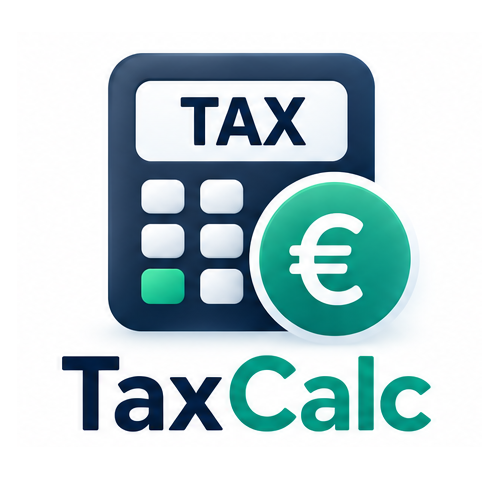
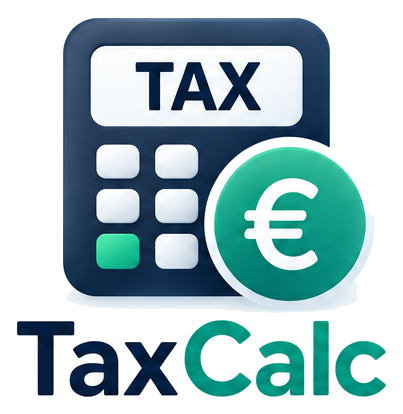
Polish documentation and brand assets

diff --git a/README.md b/README.md
@@ -1,0 +1,77 @@
+<p align="center"><img src="public/brand/taxcalc-wordmark.png" width="230" alt="TaxCalc logo"></p>
+<h1 align="center">TaxCalc</h1>
+<p align="center"><strong>Know what actually lands in your bank.</strong></p>
+
+TaxCalc is a private, transparent salary calculator for Ireland, the United Kingdom, and India. It supports both gross-to-net and net-to-gross calculations, explains the deductions applied, and exposes the tax year and official sources behind every enabled country engine.
+
+## Supported calculations
+
+| Country | Tax year | Included controls |
+| --- | --- | --- |
+| Ireland | Current enabled engine | Gross/net direction, personal status, pension contribution, income tax, USC, and PRSI |
+| United Kingdom | Current enabled engine | England/Wales/Northern Ireland and Scotland, salary sacrifice pension, National Insurance, and student/postgraduate loan plans |
+| India | FY 2026–27 engine | New or Old Regime, estimated income tax, standard deductions represented by the engine, and actual PF/retirement contribution |
+
+The active tax year, engine version, verification date, and primary government references are shown in the application’s Tax Rules & Sources page.
+
+## Product features
+
+- Convert an annual, monthly, or weekly gross salary into estimated take-home pay.
+- Work backwards from a desired net salary to the gross salary that may be required.
+- Switch countries without mixing rules, currencies, or formatting conventions.
+- See gross pay flow through tax, social contributions, pension, other deductions, and net pay.
+- Inspect a detailed deduction breakdown and effective or marginal-rate context.
+- Compare a potential raise with the current scenario.
+- Review assumptions that commonly make a real payslip differ from a simple estimate.
+- Export the current result as JSON, with the country, tax year, engine version, and disclaimer attached.
+- Use the calculator on desktop or mobile without creating an account.
+
+## Calculation architecture
+
+Country engines implement one shared interface in `lib/tax`. Money is represented in minor units during core calculations to reduce floating-point rounding errors. Each engine owns its bands, allowances, credits, social contributions, special regional logic, and source registry. Net-to-gross mode repeatedly calls the same gross-to-net engine so both directions share one rule implementation.
+
+Tax rules are not scraped into production automatically. A future year is enabled only after its official rules have been reviewed, implemented, and covered by deterministic tests.
+
+## Privacy and limitations
+
+Calculations run in the browser. TaxCalc has no account system, payroll connection, employer integration, salary database, or server-side calculation endpoint.
+
+Results are estimates, not official payslips, tax assessments, payroll advice, or financial advice. Actual figures may differ because of tax codes or certificates, cumulative/emergency taxation, prior earnings, benefits in kind, bonuses, payroll dates, pension arrangements, local professional taxes, employer-specific deductions, and rounding.
+
+## Technology
+
+- React, TypeScript, and the vinext/Vite application toolchain
+- Country-specific deterministic tax engines
+- Base UI and shadcn components for accessible controls
+- Recharts for visual breakdowns
+- Static hosting with no database requirement
+
+## Local development
+
+```bash
+npm install
+npm run dev
+```
+
+Run the tax-engine checks and production build with:
+
+```bash
+npm run test:tax
+npm run lint
+npm run build
+```
+
+## Project structure
+
+```text
+app/                     Routes, metadata, and information pages
+components/              Calculator, visualisation, and UI components
+lib/tax/engines/         Ireland, UK, and India rule implementations
+lib/tax/types.ts         Shared engine contract and result model
+tests/                   Deterministic tax-engine coverage
+public/brand/            Cropped transparent logo and wordmark assets
+```
+
+## Updating a tax year
+
+Create or revise the relevant country engine, record its official primary sources, update its version and verification date, and add boundary tests for allowances, bands, tapers, social contributions, and rounding. Do not relabel an older engine as current without completing those checks.
